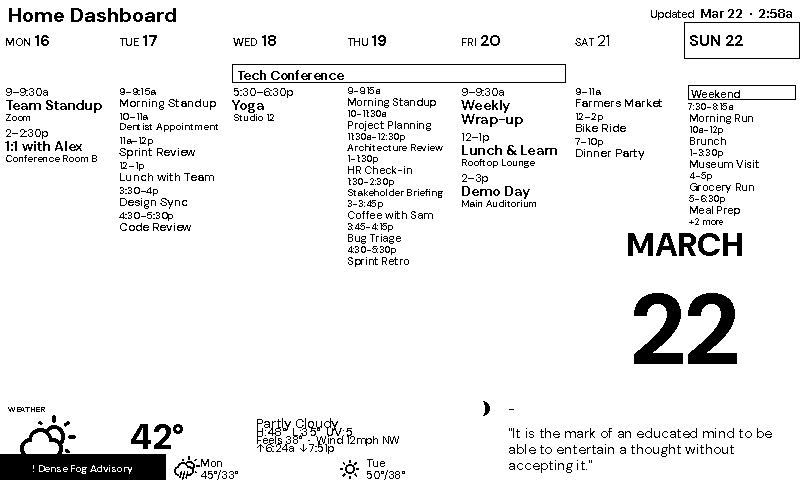
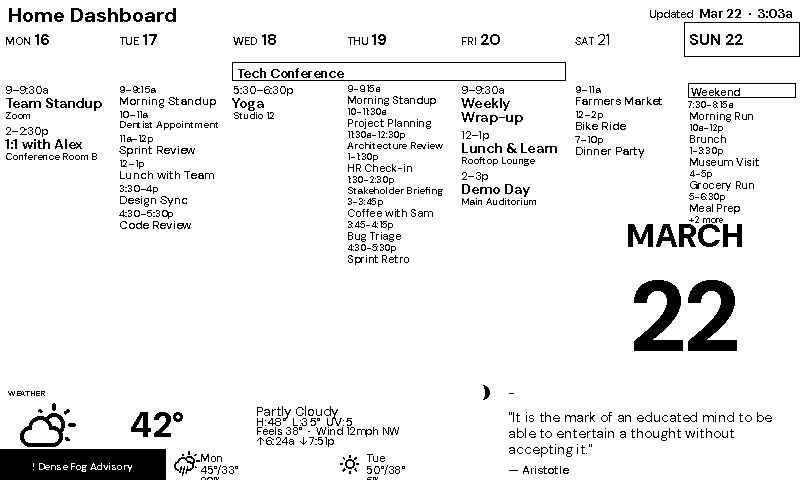
Increase minimalist bottom strip to 100px for more weather text spacing
Grow bottom_h from 84→100px (week view 374→358px). The proportional row
layout in the weather panel uses the extra height to widen the detail row
steps from ~9px to ~11px, giving the description/hi-lo/detail text room
to breathe. The forecast strip and quote panel also benefit.

https://claude.ai/code/session_01PExJ6VWu8kNdRG9gVxddYP

diff --git a/src/render/themes/minimalist.py b/src/render/themes/minimalist.py
@@ -5,7 +5,7 @@ at 374px — 54px more than the default. Today's column is marked with a full
 inverted black header block (not a soft double-underline) — the NOW is declared.
 All-day event bars are filled black. Events pack to a 1.0× grid.
 
-An 84px bottom strip splits asymmetrically: weather at 500px (wider,
+A 100px bottom strip splits asymmetrically: weather at 500px (wider,
 proportioned ~5:3) and quote at 300px. Section labels are 8pt regular —
 functional, recessive. The quote label collapses to a single em dash.
 
@@ -20,8 +20,8 @@ from src.render.fonts import dm_regular, dm_medium, dm_semibold, dm_bold
 
 def minimalist_theme() -> Theme:
     header_h = 22
-    bottom_h = 84
-    week_h = 480 - header_h - bottom_h     # 374px
+    bottom_h = 100
+    week_h = 480 - header_h - bottom_h     # 358px
     bottom_y = header_h + week_h            # 396
 
     return Theme(
